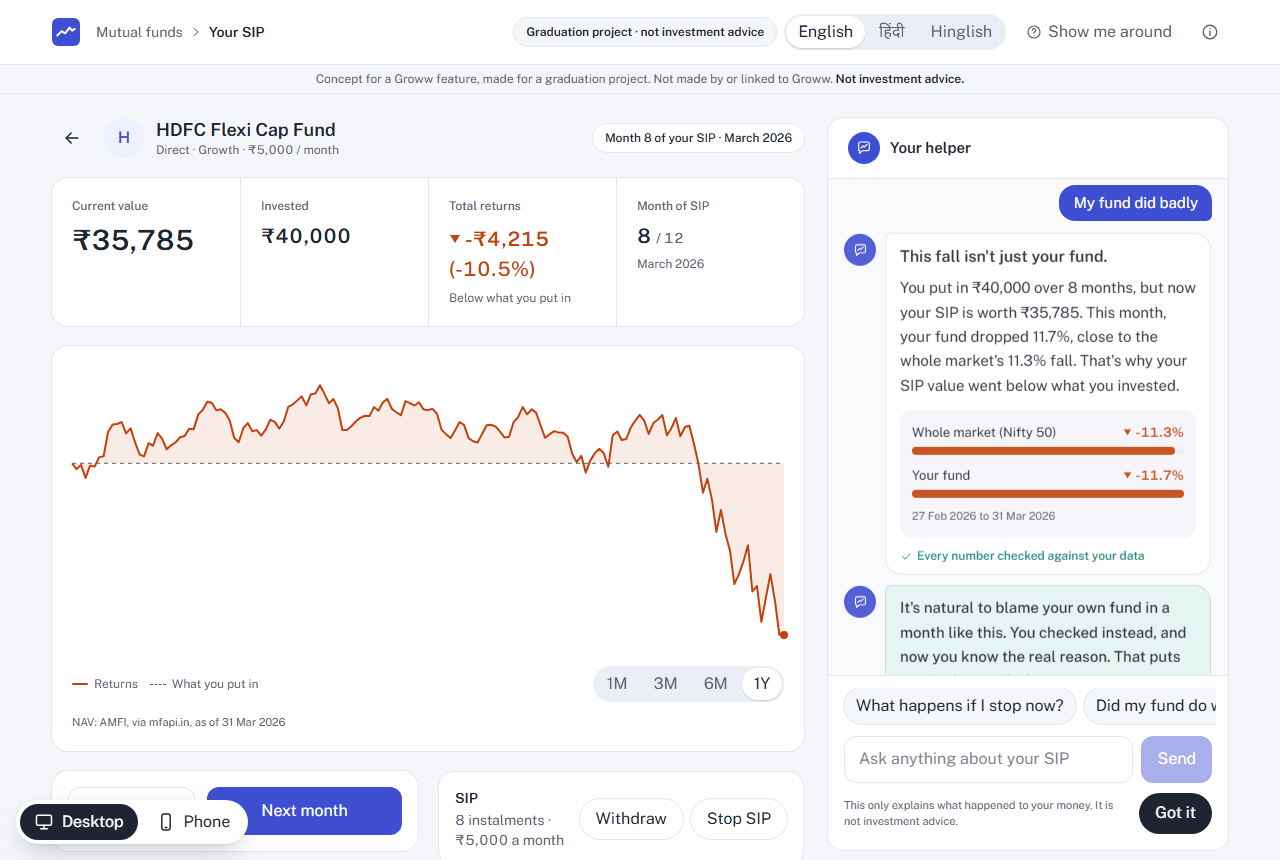
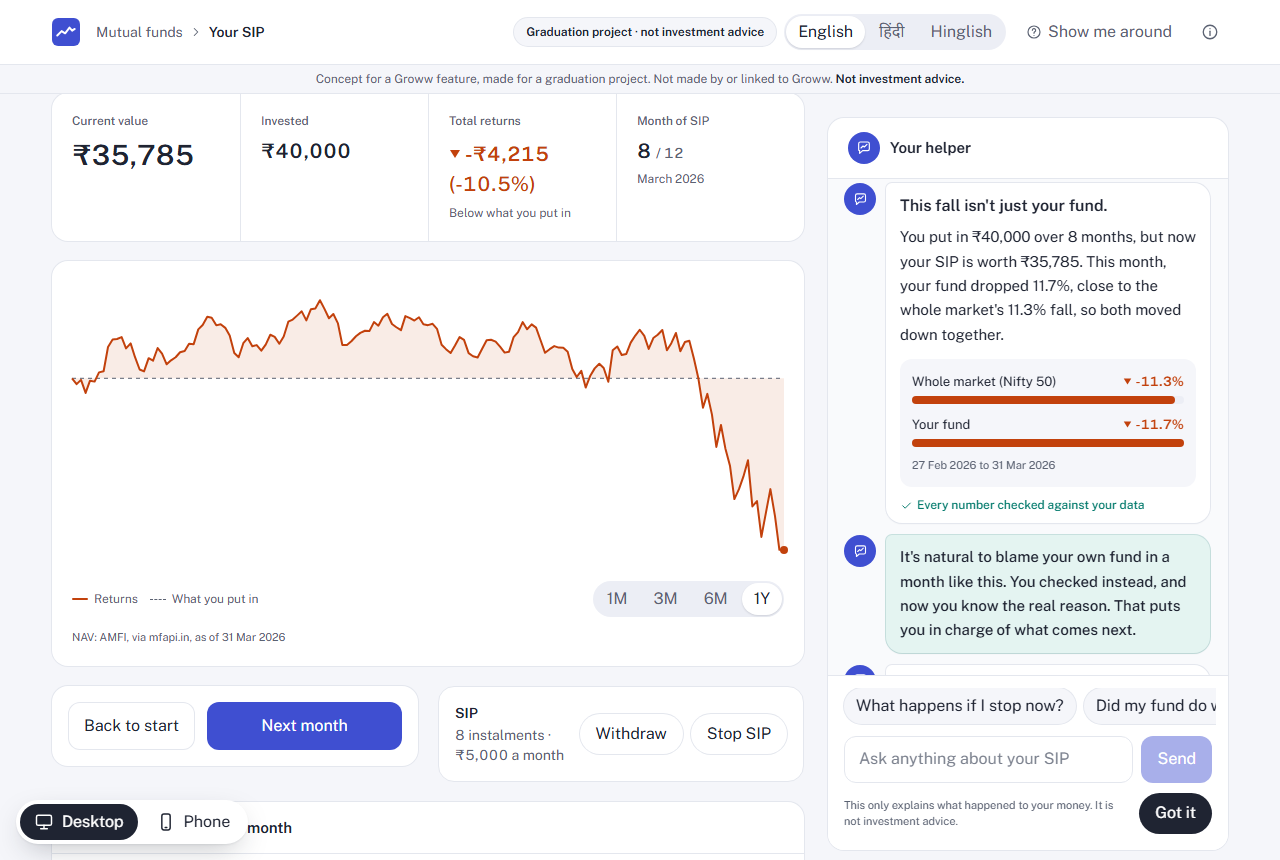
Phone: keep the helper's answer visible from its first line instead of scrolling to the bottom

diff --git a/src/components/helper/helper-sheet.tsx b/src/components/helper/helper-sheet.tsx
@@ -70,10 +70,18 @@ export function HelperSheet({
     };
   }, [guess, lang, request, facts]);
 
-  // Keep the newest message in view.
+  // Keep the reply readable from its first line: a long answer must not scroll its own start out of view.
+  const answerRef = useRef<HTMLDivElement>(null);
+  const lastTurnRef = useRef<HTMLDivElement>(null);
   useEffect(() => {
-    endRef.current?.scrollIntoView({ behavior: "smooth", block: "end" });
-  }, [guess, reason, turns]);
+    if (guess && !reason) endRef.current?.scrollIntoView({ behavior: "smooth", block: "end" });
+  }, [guess, reason]);
+  useEffect(() => {
+    if (reason) answerRef.current?.scrollIntoView({ behavior: "smooth", block: "start" });
+  }, [reason]);
+  useEffect(() => {
+    if (turns.length > 0) lastTurnRef.current?.scrollIntoView({ behavior: "smooth", block: "start" });
+  }, [turns]);
 
   function choose(g: Guess) {
     setGuess(g);
@@ -134,7 +142,7 @@ export function HelperSheet({
 
       {guess && plain && reason && (
         <>
-          <HelperSays testId="answer">
+          <HelperSays testId="answer" anchorRef={answerRef}>
             {reason.opening.map((line) => (
               <p key={line} className="text-[16px] font-semibold">
                 {line}
@@ -162,7 +170,7 @@ export function HelperSheet({
       )}
 
       {turns.map((turn, i) => (
-        <div key={i}>
+        <div key={i} ref={i === turns.length - 1 ? lastTurnRef : undefined} className="scroll-mt-3">
           <YouSay>{turn.question}</YouSay>
           {turn.reply ? (
             <HelperSays testId="reply">
@@ -275,9 +283,19 @@ export function HelperSheet({
 }
 
 /** A message from the helper: its mark on the left, a soft bubble. */
-function HelperSays({ children, tone = "plain", testId }: { children: React.ReactNode; tone?: "plain" | "cheer"; testId?: string }) {
+function HelperSays({
+  children,
+  tone = "plain",
+  testId,
+  anchorRef,
+}: {
+  children: React.ReactNode;
+  tone?: "plain" | "cheer";
+  testId?: string;
+  anchorRef?: React.Ref<HTMLDivElement>;
+}) {
   return (
-    <div className="anim-settle mt-3 flex items-start gap-2.5" data-testid={testId}>
+    <div ref={anchorRef} className="anim-settle mt-3 flex scroll-mt-3 items-start gap-2.5" data-testid={testId}>
       <span className="grid size-8 shrink-0 place-items-center rounded-full bg-primary text-paper" aria-hidden>
         <HelperIcon width={15} height={15} />
       </span>

diff --git a/e2e/sample-flow.spec.ts b/e2e/sample-flow.spec.ts
@@ -38,6 +38,9 @@ test("sample SIP: replay to the setback, tap a guess, read the reason, ask a fol
 
   await page.getByTestId("guess-fund").click();
   await expect(page.getByTestId("answer")).toContainText("This fall isn't just your fund.");
+  // The answer's first line must be on screen, not scrolled away under the header (a phone bug we fixed).
+  await page.waitForTimeout(800);
+  await expect(page.getByTestId("answer").getByText("This fall isn't just your fund.")).toBeInViewport();
   await expect(page.getByTestId("reason")).toContainText("11.3%");
   await expect(page.getByTestId("quality-tag")).toBeVisible();
   await expect(page.getByTestId("cheer")).toContainText("You checked instead");
